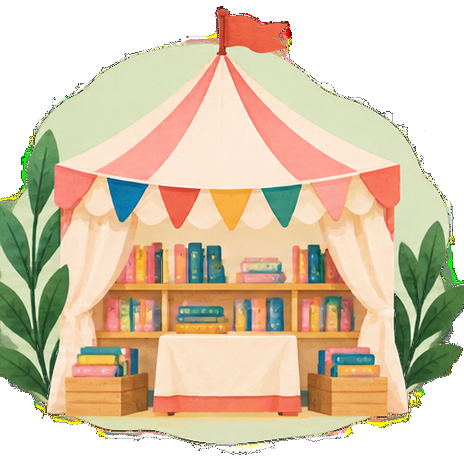
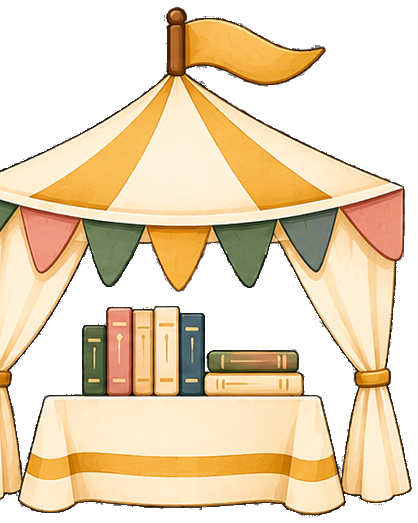
Replace Reading Trail illustrations and retone type colors
New building illustrations for the 4 location types, used in the
filter cards, list rows, and map pins (map pins now show the actual
icon instead of an emoji). Switches icon rendering from object-fit
cover to contain so illustrations are no longer cropped, and retones
the type colors to match each illustration: Public Library to green
(pine), Book Store to a distinct moss green, Book Fair to yellow
(mustard). Also fixes an initial bookstore crop that clipped the door
and awning edge.

diff --git a/app/locations/trail.css b/app/locations/trail.css
@@ -70,15 +70,15 @@
 .home-v2 .trail-type-card.active { opacity: 1; border-color: currentColor; }
 
 .home-v2 .trail-type-card[data-type="lfl"] { background: var(--rose-bg); color: var(--brick); }
-.home-v2 .trail-type-card[data-type="library"] { background: var(--sky-bg); color: var(--sky); }
-.home-v2 .trail-type-card[data-type="bookstore"] { background: var(--mustard-bg); color: #9C6B1F; }
-.home-v2 .trail-type-card[data-type="fair"] { background: var(--sage); color: var(--pine); }
+.home-v2 .trail-type-card[data-type="library"] { background: var(--sage); color: var(--pine); }
+.home-v2 .trail-type-card[data-type="bookstore"] { background: var(--moss-bg); color: var(--moss); }
+.home-v2 .trail-type-card[data-type="fair"] { background: var(--mustard-bg); color: #9C6B1F; }
 
 .home-v2 .trail-type-icon {
   width: 52px; height: 52px; flex-shrink: 0; border-radius: 12px; overflow: hidden;
-  background: rgba(255,255,255,.55);
+  background: rgba(255,255,255,.55); padding: 4px;
 }
-.home-v2 .trail-type-icon img { width: 100%; height: 100%; object-fit: cover; }
+.home-v2 .trail-type-icon img { width: 100%; height: 100%; object-fit: contain; }
 
 .home-v2 .trail-type-label { flex: 1; font-weight: 800; font-size: 14px; color: var(--ink); line-height: 1.2; }
 
@@ -90,9 +90,9 @@
 .home-v2 .trail-type-arrow svg { color: #fff; }
 
 .home-v2 .trail-type-card[data-type="lfl"] .trail-type-arrow { background: var(--brick); }
-.home-v2 .trail-type-card[data-type="library"] .trail-type-arrow { background: var(--sky); }
-.home-v2 .trail-type-card[data-type="bookstore"] .trail-type-arrow { background: #9C6B1F; }
-.home-v2 .trail-type-card[data-type="fair"] .trail-type-arrow { background: var(--pine); }
+.home-v2 .trail-type-card[data-type="library"] .trail-type-arrow { background: var(--pine); }
+.home-v2 .trail-type-card[data-type="bookstore"] .trail-type-arrow { background: var(--moss); }
+.home-v2 .trail-type-card[data-type="fair"] .trail-type-arrow { background: #9C6B1F; }
 
 /* ---------- Add Location + active-filter row ---------- */
 .home-v2 .trail-add-btn {
@@ -165,24 +165,24 @@
 }
 .home-v2 .trail-row:hover { background: var(--ground); }
 .home-v2 .trail-row[data-type="lfl"] { border-left-color: var(--coral); }
-.home-v2 .trail-row[data-type="library"] { border-left-color: var(--sky); }
-.home-v2 .trail-row[data-type="bookstore"] { border-left-color: var(--mustard); }
-.home-v2 .trail-row[data-type="fair"] { border-left-color: var(--pine); }
+.home-v2 .trail-row[data-type="library"] { border-left-color: var(--pine); }
+.home-v2 .trail-row[data-type="bookstore"] { border-left-color: var(--moss); }
+.home-v2 .trail-row[data-type="fair"] { border-left-color: var(--mustard); }
 
 .home-v2 .trail-row-type {
   width: 64px; flex-shrink: 0; display: flex; flex-direction: column; align-items: center;
   justify-content: flex-start; gap: 5px; padding: 12px 4px;
 }
 .home-v2 .trail-row-icon { width: 30px; height: 30px; border-radius: 8px; overflow: hidden; }
-.home-v2 .trail-row-icon img { width: 100%; height: 100%; object-fit: cover; }
+.home-v2 .trail-row-icon img { width: 100%; height: 100%; object-fit: contain; }
 .home-v2 .trail-row-type-label {
   font-size: 8.5px; font-weight: 800; text-transform: uppercase; letter-spacing: .3px;
   text-align: center; line-height: 1.15;
 }
 .home-v2 .trail-row[data-type="lfl"] .trail-row-type-label { color: var(--brick); }
-.home-v2 .trail-row[data-type="library"] .trail-row-type-label { color: var(--sky); }
-.home-v2 .trail-row[data-type="bookstore"] .trail-row-type-label { color: #9C6B1F; }
-.home-v2 .trail-row[data-type="fair"] .trail-row-type-label { color: var(--pine); }
+.home-v2 .trail-row[data-type="library"] .trail-row-type-label { color: var(--pine); }
+.home-v2 .trail-row[data-type="bookstore"] .trail-row-type-label { color: var(--moss); }
+.home-v2 .trail-row[data-type="fair"] .trail-row-type-label { color: #9C6B1F; }
 
 .home-v2 .trail-row-body { flex: 1; min-width: 0; padding: 12px 10px; }
 .home-v2 .trail-row-name { font-family: var(--serif); font-size: 15px; font-weight: 600; color: var(--ink); line-height: 1.2; }
@@ -245,13 +245,13 @@ select.trail-input { cursor: pointer; }
   border-left: 4px solid var(--pine); border-radius: 12px; padding: 10px 14px; margin-bottom: 14px; background: var(--sage);
 }
 .home-v2 .trail-report-preview[data-type="lfl"] { border-left-color: var(--coral); background: var(--rose-bg); }
-.home-v2 .trail-report-preview[data-type="library"] { border-left-color: var(--sky); background: var(--sky-bg); }
-.home-v2 .trail-report-preview[data-type="bookstore"] { border-left-color: var(--mustard); background: var(--mustard-bg); }
-.home-v2 .trail-report-preview[data-type="fair"] { border-left-color: var(--pine); background: var(--sage); }
+.home-v2 .trail-report-preview[data-type="library"] { border-left-color: var(--pine); background: var(--sage); }
+.home-v2 .trail-report-preview[data-type="bookstore"] { border-left-color: var(--moss); background: var(--moss-bg); }
+.home-v2 .trail-report-preview[data-type="fair"] { border-left-color: var(--mustard); background: var(--mustard-bg); }
 .home-v2 .trail-report-preview[data-type="lfl"] .type { color: var(--brick); }
-.home-v2 .trail-report-preview[data-type="library"] .type { color: var(--sky); }
-.home-v2 .trail-report-preview[data-type="bookstore"] .type { color: #9C6B1F; }
-.home-v2 .trail-report-preview[data-type="fair"] .type { color: var(--pine); }
+.home-v2 .trail-report-preview[data-type="library"] .type { color: var(--pine); }
+.home-v2 .trail-report-preview[data-type="bookstore"] .type { color: var(--moss); }
+.home-v2 .trail-report-preview[data-type="fair"] .type { color: #9C6B1F; }
 .home-v2 .trail-report-preview .name { font-weight: 800; font-size: 14px; color: var(--ink); }
 .home-v2 .trail-report-preview .addr { font-weight: 600; font-size: 12.5px; color: var(--ink-soft); }
 .home-v2 .trail-report-preview .type { font-weight: 800; font-size: 11px; margin-top: 2px; }

diff --git a/app/locations/MapView.tsx b/app/locations/MapView.tsx
@@ -21,24 +21,25 @@ export type Bounds = [[number, number], [number, number]]
 
 const TYPE_META: Record<'lfl' | 'library' | 'bookstore' | 'fair', {
   emoji: string
+  icon: string
   label: string
   bg: string
   ring: string
   badgeBg: string
   badgeColor: string
 }> = {
-  lfl:       { emoji: '📚', label: 'Little Free Library', bg: '#E07A5F', ring: '#B5462F', badgeBg: '#F8E4E1', badgeColor: '#B5462F' },
-  library:   { emoji: '🏛', label: 'Public Library',      bg: '#4C6B8A', ring: '#33475C', badgeBg: '#E4EDF3', badgeColor: '#33475C' },
-  bookstore: { emoji: '📖', label: 'Book Store',           bg: '#E4B04A', ring: '#9C6B1F', badgeBg: '#F8ECD1', badgeColor: '#9C6B1F' },
-  fair:      { emoji: '🎪', label: 'Library Fair',         bg: '#234A40', ring: '#1A3830', badgeBg: '#EAF1EA', badgeColor: '#234A40' },
+  lfl:       { emoji: '📚', icon: '/home/trail-icon-lfl.png?v=2', label: 'Little Free Library', bg: '#E07A5F', ring: '#B5462F', badgeBg: '#F8E4E1', badgeColor: '#B5462F' },
+  library:   { emoji: '🏛', icon: '/home/trail-icon-library.png?v=2', label: 'Public Library',      bg: '#234A40', ring: '#1A3830', badgeBg: '#EAF1EA', badgeColor: '#234A40' },
+  bookstore: { emoji: '📖', icon: '/home/trail-icon-bookstore.png?v=2', label: 'Book Store',           bg: '#6E7B3E', ring: '#4E5A29', badgeBg: '#E9EEDD', badgeColor: '#4E5A29' },
+  fair:      { emoji: '🎪', icon: '/home/trail-icon-fair.png?v=2', label: 'Library Fair',         bg: '#E4B04A', ring: '#9C6B1F', badgeBg: '#F8ECD1', badgeColor: '#9C6B1F' },
 }
 
 // Classic map-pin silhouette: a square rotated 45° with three corners
 // rounded and the bottom-left corner square, so it comes to a point at the
-// bottom — the emoji is counter-rotated back to upright inside it.
+// bottom — the icon image is counter-rotated back to upright inside it.
 function Pin({ type }: { type: 'lfl' | 'library' | 'bookstore' | 'fair' | 'pending' }) {
   const c = type === 'pending'
-    ? { emoji: '📌', bg: '#6E7B3E', ring: '#4E5A29' }
+    ? { icon: null as string | null, bg: '#6E7B3E', ring: '#4E5A29' }
     : TYPE_META[type]
   return (
     <div style={{
@@ -50,7 +51,13 @@ function Pin({ type }: { type: 'lfl' | 'library' | 'bookstore' | 'fair' | 'pendi
       cursor: 'pointer',
       boxShadow: '0 4px 12px rgba(43,38,34,0.35)',
     }}>
-      <span style={{ fontSize: 16, transform: 'rotate(45deg)' }}>{c.emoji}</span>
+      <div style={{ width: 20, height: 20, transform: 'rotate(45deg)', display: 'flex', alignItems: 'center', justifyContent: 'center' }}>
+        {c.icon ? (
+          <img src={c.icon} alt="" style={{ width: '100%', height: '100%', objectFit: 'contain' }} />
+        ) : (
+          <span style={{ fontSize: 15 }}>📌</span>
+        )}
+      </div>
     </div>
   )
 }

diff --git a/app/locations/LocationsClient.tsx b/app/locations/LocationsClient.tsx
@@ -98,10 +98,10 @@ function formatDate(iso: string) {
 type LocType = 'lfl' | 'library' | 'bookstore' | 'fair'
 
 const TYPE_META: Record<LocType, { emoji: string; label: string; icon: string }> = {
-  lfl:       { emoji: '📚', label: 'Little Free Library', icon: '/home/trail-icon-lfl.png' },
-  library:   { emoji: '🏛', label: 'Public Library',      icon: '/home/trail-icon-library.png' },
-  bookstore: { emoji: '📖', label: 'Book Store',           icon: '/home/trail-icon-bookstore.png' },
-  fair:      { emoji: '🎪', label: 'Book Fair',            icon: '/home/trail-icon-fair.png' },
+  lfl:       { emoji: '📚', label: 'Little Free Library', icon: '/home/trail-icon-lfl.png?v=2' },
+  library:   { emoji: '🏛', label: 'Public Library',      icon: '/home/trail-icon-library.png?v=2' },
+  bookstore: { emoji: '📖', label: 'Book Store',           icon: '/home/trail-icon-bookstore.png?v=2' },
+  fair:      { emoji: '🎪', label: 'Book Fair',            icon: '/home/trail-icon-fair.png?v=2' },
 }
 
 const TYPE_ORDER: LocType[] = ['lfl', 'library', 'bookstore', 'fair']
@@ -111,9 +111,9 @@ const TYPE_ORDER: LocType[] = ['lfl', 'library', 'bookstore', 'fair']
 // the handful of spots (dates, distance) where inline color beats a CSS hook.
 const TYPE_COLOR: Record<LocType, string> = {
   lfl: '#B5462F',
-  library: '#33475C',
-  bookstore: '#9C6B1F',
-  fair: '#234A40',
+  library: '#234A40',
+  bookstore: '#6E7B3E',
+  fair: '#9C6B1F',
 }
 
 type FlyTo = { center: [number, number]; zoom: number; nonce: number }

diff --git a/app/home.css b/app/home.css
@@ -15,11 +15,10 @@
   --brick: #B5462F;
   --coral: #E07A5F;
   --mustard: #E4B04A;
-  --sky: #4C6B8A;
   --sage: #EAF1EA;
   --peach: #F4E3D5;
   --rose-bg: #F8E4E1;
-  --sky-bg: #E4EDF3;
+  --moss-bg: #E9EEDD;
   --mustard-bg: #F8ECD1;
   --line: #E7DCCB;
   --shadow: 0 18px 40px -24px rgba(43, 38, 34, .38);
